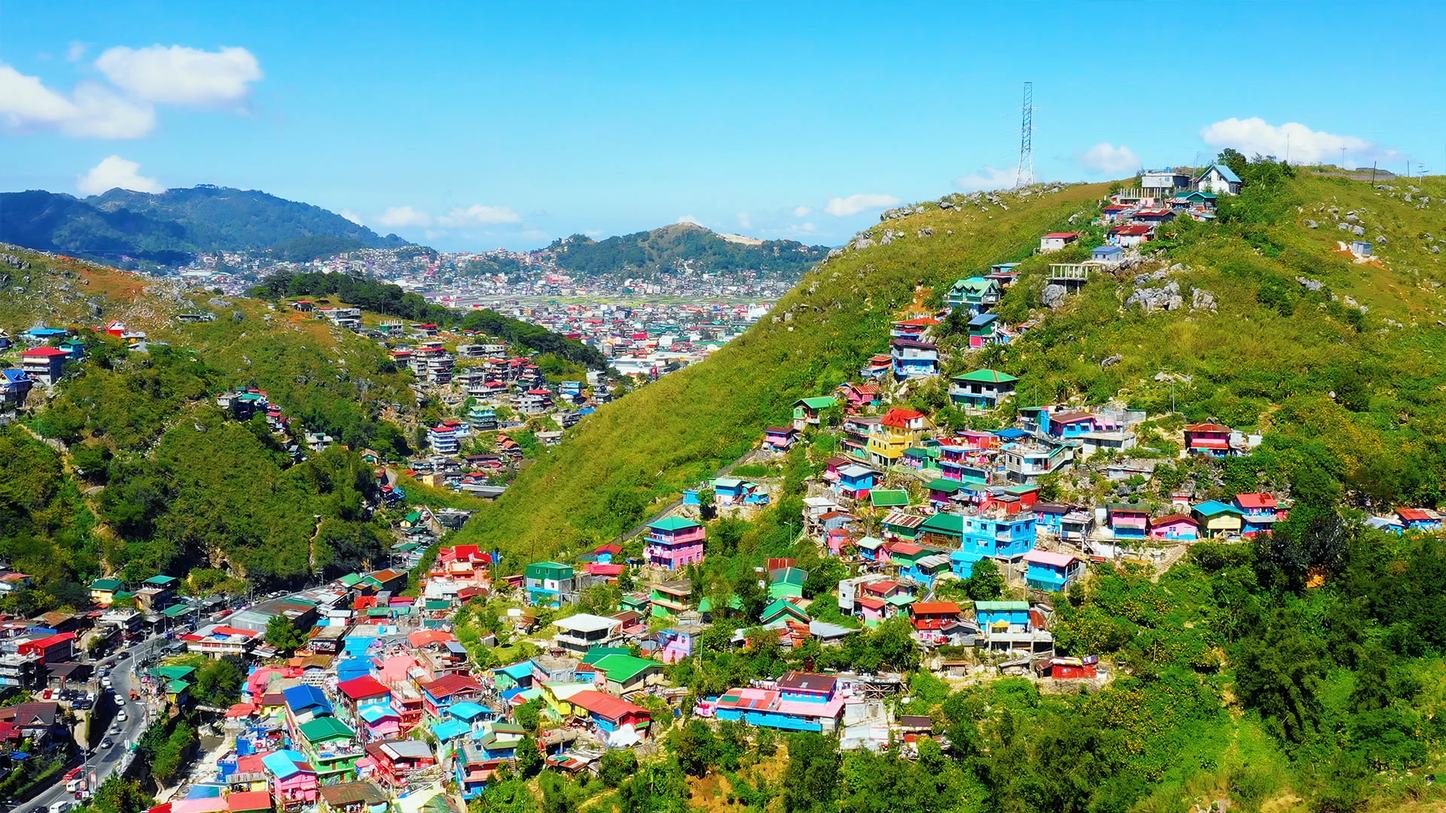
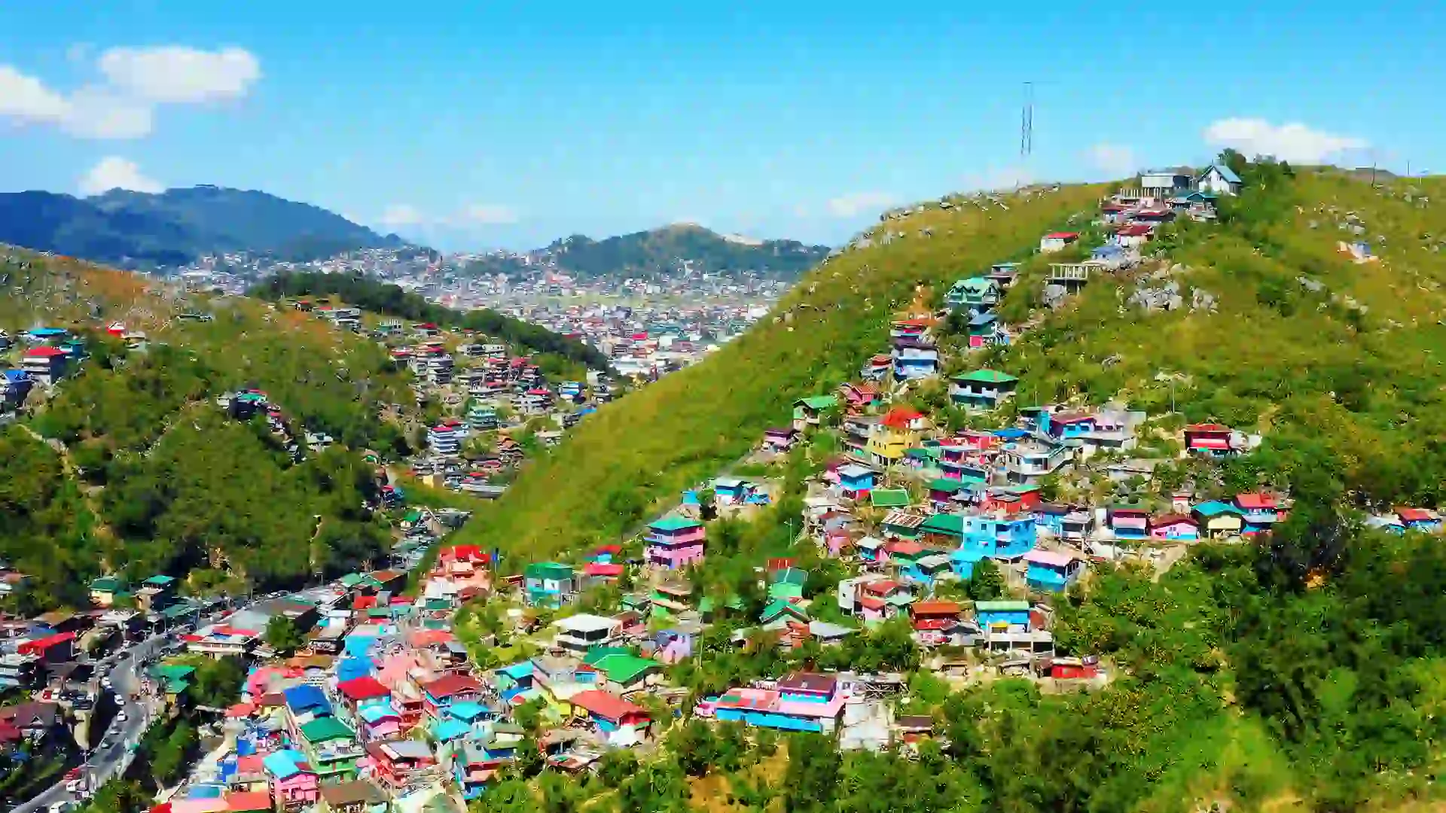
place.html edited

diff --git a/styles/place.css b/styles/place.css
@@ -6,10 +6,10 @@
 
 :root {
     --primary-color: #083694;
-    --secondary-color: #CE1126;
-    --accent-color: #00d40b;
+    --secondary-color: #880312;
+    --accent-color: #dbff0e;
     --background-color: #f4f4f4;
-    --text-color: #333333;
+    --text-color: #000000;
 }
 
 body {
@@ -33,10 +33,11 @@ header {
 }
 
 .image-section {
-    width: 100%;
+    width: 60%;
     text-align: center;
     background-color: var(--accent-color);
     padding: 10px;
+    margin: 0 auto;
 }
 
 .hero-image, .big-image {
@@ -58,7 +59,7 @@ header {
 .data-section h2,
 .weather-section h2 {
     font-size: 1em;
-    color: var(--primary-color);
+    color: var(--text-color);
 }
 
 .weather-icon {
@@ -87,13 +88,13 @@ td.label {
 
 td.value {
     text-align: left;
-    color: #555;
+    color: var(--text-color);
     font-size: 0.75rem;
 }
 
 footer {
     background-color: var(--secondary-color);
-    color: white;
+    color: var(--background-color);
     width: 100%;
     text-align: center;
     font-size: 0.9em;
@@ -156,6 +157,9 @@ footer {
         content: url('../images/weather_sunny_icon.png');
         height: auto;
         position: absolute;
+    }
+    .image-section {
+        width: 100%;
     }
 
 }

diff --git a/place.html b/place.html
@@ -23,12 +23,12 @@
         <h1>Baguio</h1>
     </header>
     <main>
-        <section class="image-section">
+        <div class="image-section">
             <picture>
                 <source class="big-image" srcset="images/baguio.webp" media="(min-width: 850px)">
                 <img class="hero-image" src="images/inBaguio.jpg" alt="Summer Capital of the Philippines">
             </picture>
-        </section>
+        </div>
 
         <div class="main-content">
             <section class="data-section">
